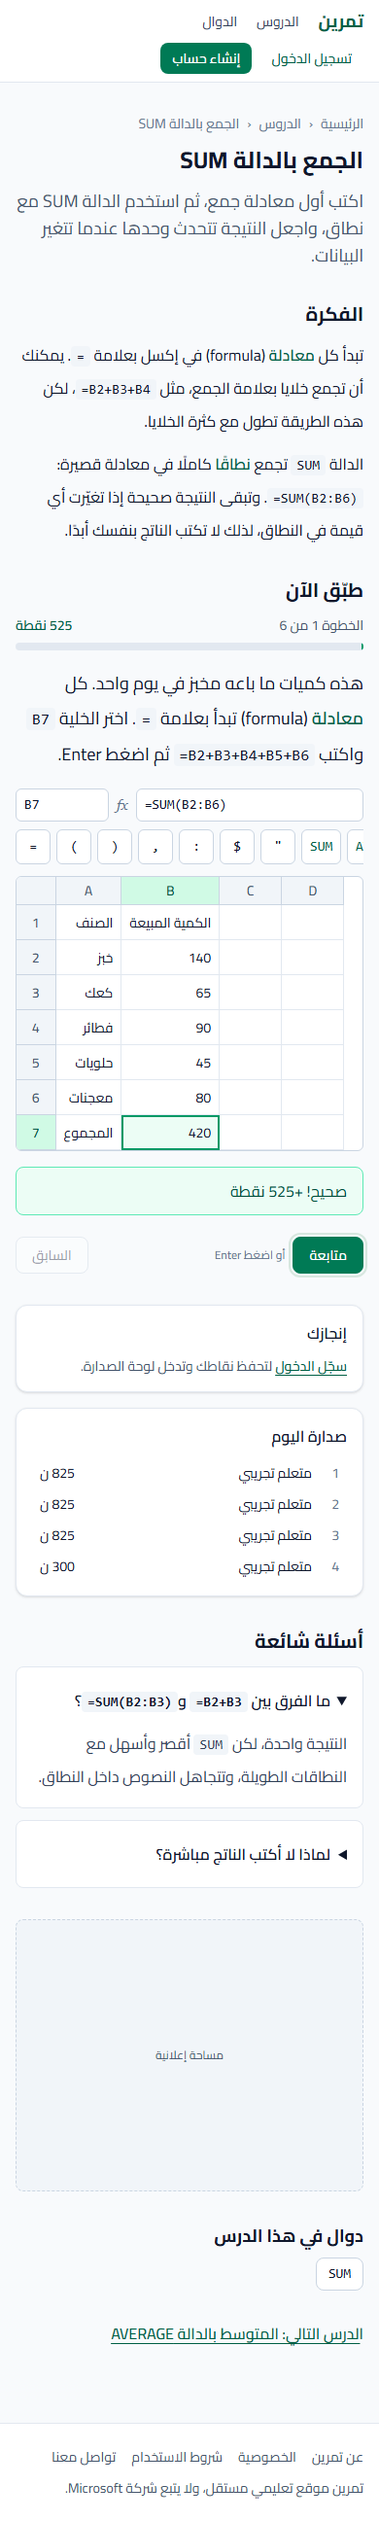
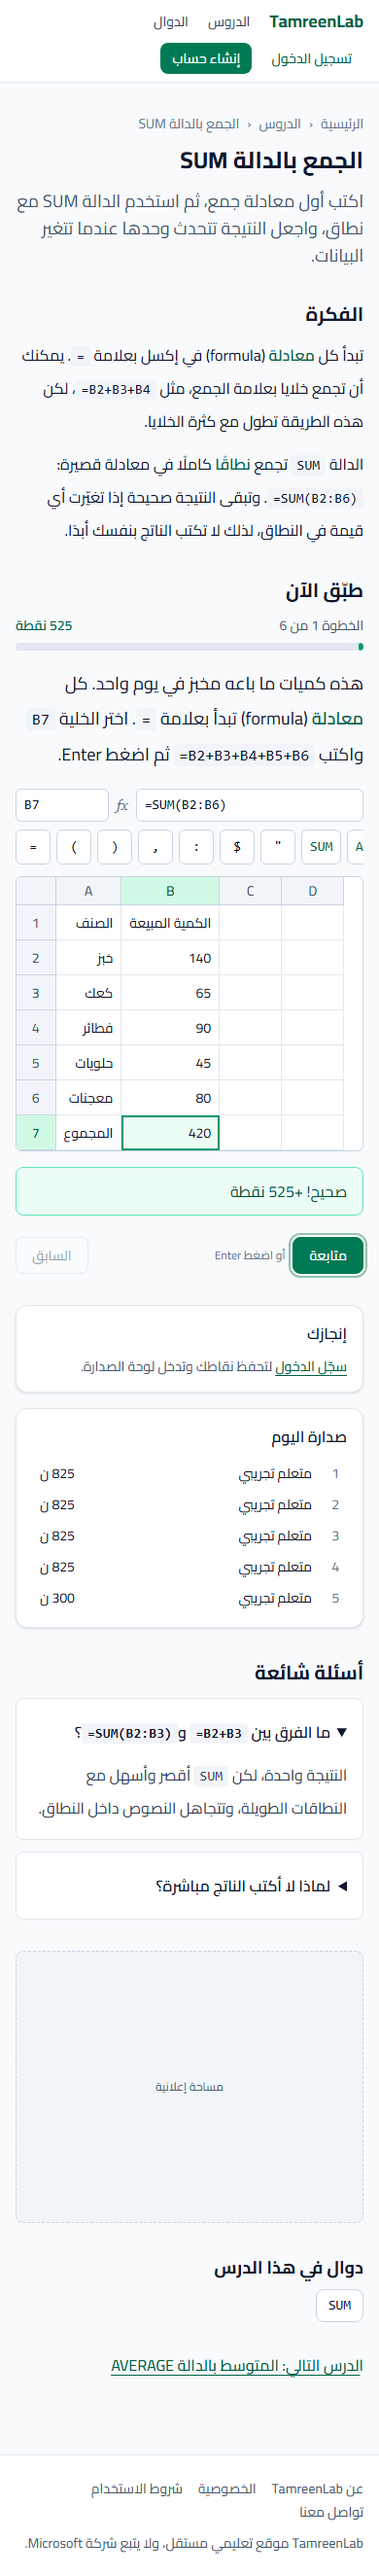
content: publish the 20 lessons by developer decision; adr 008 on brand and audience

diff --git a/docs/CONTENT.md b/docs/CONTENT.md
@@ -46,12 +46,14 @@ Every `{{term}}` must exist in `content/glossary.json`. Put formulas, cell refer
 
 - All data must be original. Never copy tables, names or text from other sites or books.
 - Use names from across the Arab world (سلمى، يوسف، مريم، كريم، هدى …) and familiar settings: a bakery, a stationery shop, a school, a small office.
-- Do not use currency symbols or a specific country's currency until decision D2 is made. Use plain numbers, or units such as quantities and hours.
+- The site is for every Arabic reader and never names a target country, though most of the audience is expected from the Gulf (D2, ADR 008). Use Modern Standard Arabic, avoid any one country's dialect, currency or institutions, and use plain numbers or units such as quantities and hours.
 - Keep sheets small (the visible range is at most about 30 rows by 12 columns) and label every column in row 1.
 
 ## Publishing
 
 New lessons are `"status": "DRAFT"`. A lesson becomes `"PUBLISHED"` only after a native Arabic speaker has reviewed it and an entry has been added to the review log below. Lint rejects a published lesson that is not in the log.
+
+Exception (ADR 008): the developer published the first 20 lessons on 2026-10-31 without that review. They are logged below as not yet reviewed. When a native speaker reviews one, replace its row with the reviewer and date.
 
 ## Review log
 
@@ -59,3 +61,23 @@ One row per reviewed lesson. Write the slug in backticks.
 
 | Lesson | Reviewer | Date | Notes |
 | ------ | -------- | ---- | ----- |
+| `aggregation-practice` | none: published by developer decision (Bilel Jabrane) | 2026-10-31 | Not yet reviewed by a native Arabic speaker; see ADR 008 |
+| `aggregation-review` | none: published by developer decision (Bilel Jabrane) | 2026-10-31 | Not yet reviewed by a native Arabic speaker; see ADR 008 |
+| `and-or` | none: published by developer decision (Bilel Jabrane) | 2026-10-31 | Not yet reviewed by a native Arabic speaker; see ADR 008 |
+| `average` | none: published by developer decision (Bilel Jabrane) | 2026-10-31 | Not yet reviewed by a native Arabic speaker; see ADR 008 |
+| `cells-and-selection` | none: published by developer decision (Bilel Jabrane) | 2026-10-31 | Not yet reviewed by a native Arabic speaker; see ADR 008 |
+| `count-and-counta` | none: published by developer decision (Bilel Jabrane) | 2026-10-31 | Not yet reviewed by a native Arabic speaker; see ADR 008 |
+| `countif-basics` | none: published by developer decision (Bilel Jabrane) | 2026-10-31 | Not yet reviewed by a native Arabic speaker; see ADR 008 |
+| `criteria-operators` | none: published by developer decision (Bilel Jabrane) | 2026-10-31 | Not yet reviewed by a native Arabic speaker; see ADR 008 |
+| `editing-cells` | none: published by developer decision (Bilel Jabrane) | 2026-10-31 | Not yet reviewed by a native Arabic speaker; see ADR 008 |
+| `if-basics` | none: published by developer decision (Bilel Jabrane) | 2026-10-31 | Not yet reviewed by a native Arabic speaker; see ADR 008 |
+| `if-with-conditions` | none: published by developer decision (Bilel Jabrane) | 2026-10-31 | Not yet reviewed by a native Arabic speaker; see ADR 008 |
+| `min-and-max` | none: published by developer decision (Bilel Jabrane) | 2026-10-31 | Not yet reviewed by a native Arabic speaker; see ADR 008 |
+| `mixed-review` | none: published by developer decision (Bilel Jabrane) | 2026-10-31 | Not yet reviewed by a native Arabic speaker; see ADR 008 |
+| `ranges-and-references` | none: published by developer decision (Bilel Jabrane) | 2026-10-31 | Not yet reviewed by a native Arabic speaker; see ADR 008 |
+| `sum-basics` | none: published by developer decision (Bilel Jabrane) | 2026-10-31 | Not yet reviewed by a native Arabic speaker; see ADR 008 |
+| `sumif-basics` | none: published by developer decision (Bilel Jabrane) | 2026-10-31 | Not yet reviewed by a native Arabic speaker; see ADR 008 |
+| `sumifs-countifs` | none: published by developer decision (Bilel Jabrane) | 2026-10-31 | Not yet reviewed by a native Arabic speaker; see ADR 008 |
+| `vlookup-approximate` | none: published by developer decision (Bilel Jabrane) | 2026-10-31 | Not yet reviewed by a native Arabic speaker; see ADR 008 |
+| `vlookup-exact` | none: published by developer decision (Bilel Jabrane) | 2026-10-31 | Not yet reviewed by a native Arabic speaker; see ADR 008 |
+| `vlookup-not-found` | none: published by developer decision (Bilel Jabrane) | 2026-10-31 | Not yet reviewed by a native Arabic speaker; see ADR 008 |

diff --git a/docs/LAUNCH.md b/docs/LAUNCH.md
@@ -4,10 +4,9 @@ Everything the developer needs to do or decide before the Phase 5 launch gate (P
 
 ## 1. Blocking: do these before going live
 
-- [ ] **Decide D1, D2, D3 and D5** and record each as an ADR in `docs/adr/`: brand and domain, first target country, hosting, and ad network plus consent approach.
-- [ ] **Native Arabic review of the 20 lessons.** All lessons are still `DRAFT`. A lesson becomes `PUBLISHED` after review, with an entry in the review log in `docs/CONTENT.md`.
-  - **Why it blocks:** in production the API excludes drafts by default (`CONTENT_INCLUDE_DRAFTS` defaults to off). Draft lessons still render on the site, but their attempts are not scored.
-  - **If you must launch before review:** set `CONTENT_INCLUDE_DRAFTS=true` on the API, deliberately.
+- [x] **D1 brand and D2 audience** are decided (ADR 008): TamreenLab, no country named on the site, Gulf audience hoped for.
+- [ ] **Decide the domain (rest of D1), D3 and D5** and record each as an ADR in `docs/adr/`: hosting, and ad network plus consent approach.
+- [x] **Lessons published.** All 20 are `PUBLISHED` by developer decision, without native review yet (ADR 008). A native review later is still recommended; replace each review-log row in `docs/CONTENT.md` as lessons are reviewed.
 - [ ] **Production environment**
   - Web:
     - `SITE_URL` is the public origin, with no trailing slash. It drives canonical URLs, the sitemap and structured data.
@@ -17,12 +16,10 @@ Everything the developer needs to do or decide before the Phase 5 launch gate (P
     - `DATABASE_URL`.
     - `JWT_SECRET`: a long random value. The API refuses to start in production without it.
     - `NODE_ENV=production`. This also makes cookies `Secure`.
-    - `DAY_UTC_OFFSET_MINUTES` if the target country is not UTC+3.
+    - `DAY_UTC_OFFSET_MINUTES` stays at the default UTC+3 (ADR 008).
   - Database and content: run `pnpm db:migrate`, then `pnpm content:sync` against the production database.
 - [ ] **Contact address.** The contact page says the address is "added at launch" (`pages.contact.body` in `apps/web/messages/ar.json`). Add a real address.
-- [ ] **Account deletion.** The privacy page promises learners can delete their account. The API supports it (`DELETE /api/me`), but the site has no button for it yet.
-  - **Option 1:** ask for a small task to add one.
-  - **Option 2:** soften the privacy text until Phase 9.
+- [x] **Account deletion.** Signed-in learners can delete their account from the bottom of the privacy page, with a confirmation step (`DELETE /api/me`).
 
 ## 2. Search Console
 
@@ -60,7 +57,7 @@ Everything the developer needs to do or decide before the Phase 5 launch gate (P
 
 ## 5. Consent text
 
-- [ ] **Have the banner and privacy page reviewed for the target country.** The text is in `apps/web/messages/ar.json`, under `consent` and `pages.privacy`.
+- [ ] **Have the banner and privacy page reviewed for the Gulf countries you expect most learners from** (Saudi Arabia's PDPL and the UAE's PDPL are the main ones). The text is in `apps/web/messages/ar.json`, under `consent` and `pages.privacy`.
   - **Current behaviour:** anonymous analytics are on until the learner refuses them (opt-out), and personalised ads are off until they accept (opt-in).
   - If the target country, or the ad network's terms, require opt-in for analytics, change the default in `analyticsAllowed` (`packages/ui/src/consent/consent.ts`). This is a one-line change.
 - [ ] **Name the operator** (a person or company) and add a contact for privacy requests on the privacy page.

diff --git a/docs/adr/008-brand-audience-and-publishing.md b/docs/adr/008-brand-audience-and-publishing.md
@@ -1,0 +1,33 @@
+# ADR 008 — Brand, audience and publishing the first lessons
+
+- **Status:** accepted
+- **Date:** 2026-10-31
+- **Decider:** developer (D1, D2 and the publishing exception); Claude Code recorded and applied them
+
+## Context
+
+The launch checklist (docs/LAUNCH.md) needs decisions D1 (brand) and D2 (first target country). It also flagged that all 20 lessons were still `DRAFT`, waiting on the native-Arabic review PLAN Phase 3 requires.
+
+## Decision
+
+### D1: brand
+
+**TamreenLab**, written in Latin letters, including inside Arabic text. It is defined once as `SITE_NAME` in `apps/web/src/lib/seo.ts`. Arabic copy uses it in `apps/web/messages/ar.json`, under `header.brand` and the about, privacy and terms pages. The domain is not decided yet; `SITE_URL` sets it at deploy time.
+
+### D2: audience
+
+- **No country on the site.** The site is for every Arabic reader and never names a target country, in copy or in metadata.
+- **Gulf focus elsewhere.** The developer hopes most of the audience comes from the Gulf countries. That focus applies to promotion, the launch review and the hosting region (D3), not to the site itself.
+- **Language.** Writing stays Modern Standard Arabic, with no dialect, currency or national institutions (docs/CONTENT.md).
+- **Day boundary.** "Day" for streaks and the leaderboard stays UTC+3 (`DAY_UTC_OFFSET_MINUTES`, ADR 006). That is local midnight in Saudi Arabia, Kuwait, Qatar and Bahrain, and one hour off in the UAE and Oman.
+- **Language tags.** Open Graph locale stays `ar_AR` and hreflang stays `ar`, both region-neutral.
+
+### Publishing without native review
+
+The developer chose to publish all 20 lessons now, without the native-Arabic review that PLAN Phase 3 requires before publishing. Each lesson is `PUBLISHED`. The review log in docs/CONTENT.md lists each one as published by developer decision and not yet reviewed, so content lint passes without recording a review that did not happen.
+
+## Consequences
+
+- In production the API scores all 20 lessons; `CONTENT_INCLUDE_DRAFTS` is not needed.
+- Arabic errors can reach learners. A later native review should replace each log row with the reviewer and date. Step-level drop-off from `pnpm metrics:report` can show which lessons to review first.
+- If the audience turns out to be mostly in the UAE or Oman, revisit the day offset.

diff --git a/docs/PLAN.md b/docs/PLAN.md
@@ -452,8 +452,8 @@ You instrument and report; the developer sets targets and makes the go/no-go cal
 
 ## 7. Decisions that belong to the developer (record each as an ADR in `docs/adr/`)
 
-- **D1** Brand name and domain.
-- **D2** First target country, and a dialect-neutral writing style.
+- **D1** Brand name and domain. *Brand decided: TamreenLab (ADR 008); domain open.*
+- **D2** First target country, and a dialect-neutral writing style. *Decided (ADR 008): no country named on the site; Gulf audience hoped for; Modern Standard Arabic.*
 - **D3** Hosting regions and providers.
 - **D4** Formula engine and, if HyperFormula, whether to buy its commercial license.
 - **D5** Ad network and consent approach.
